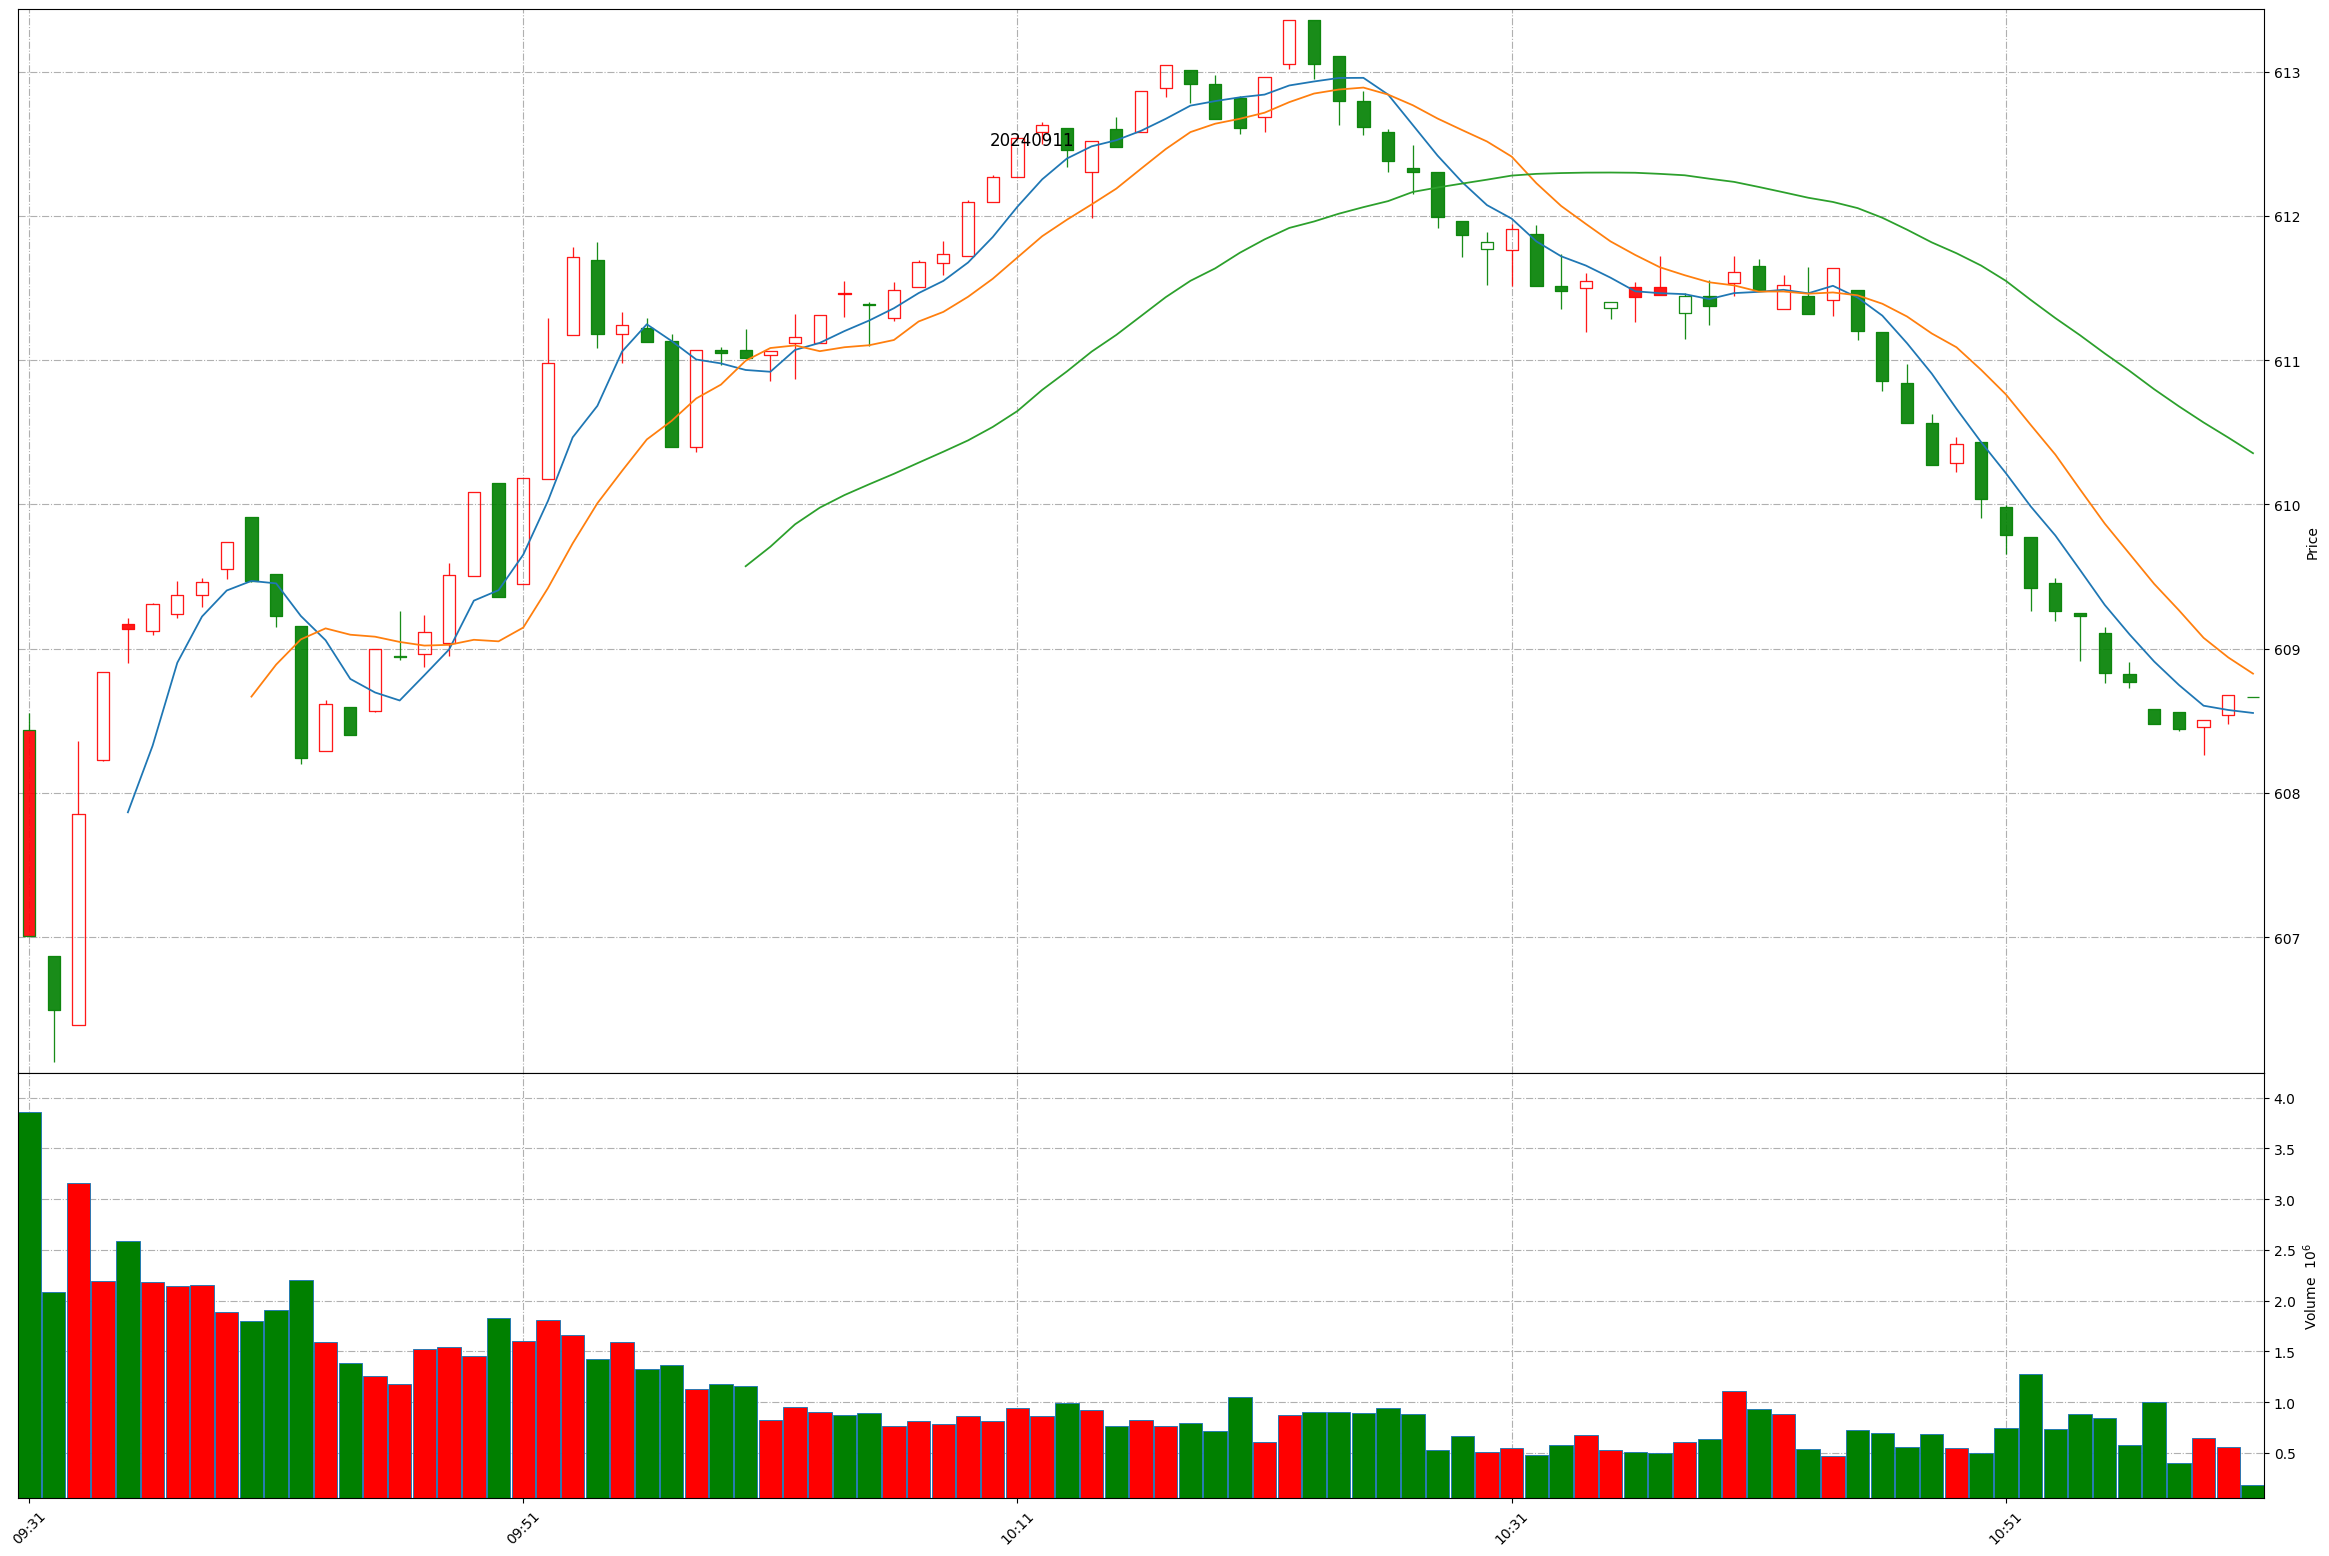
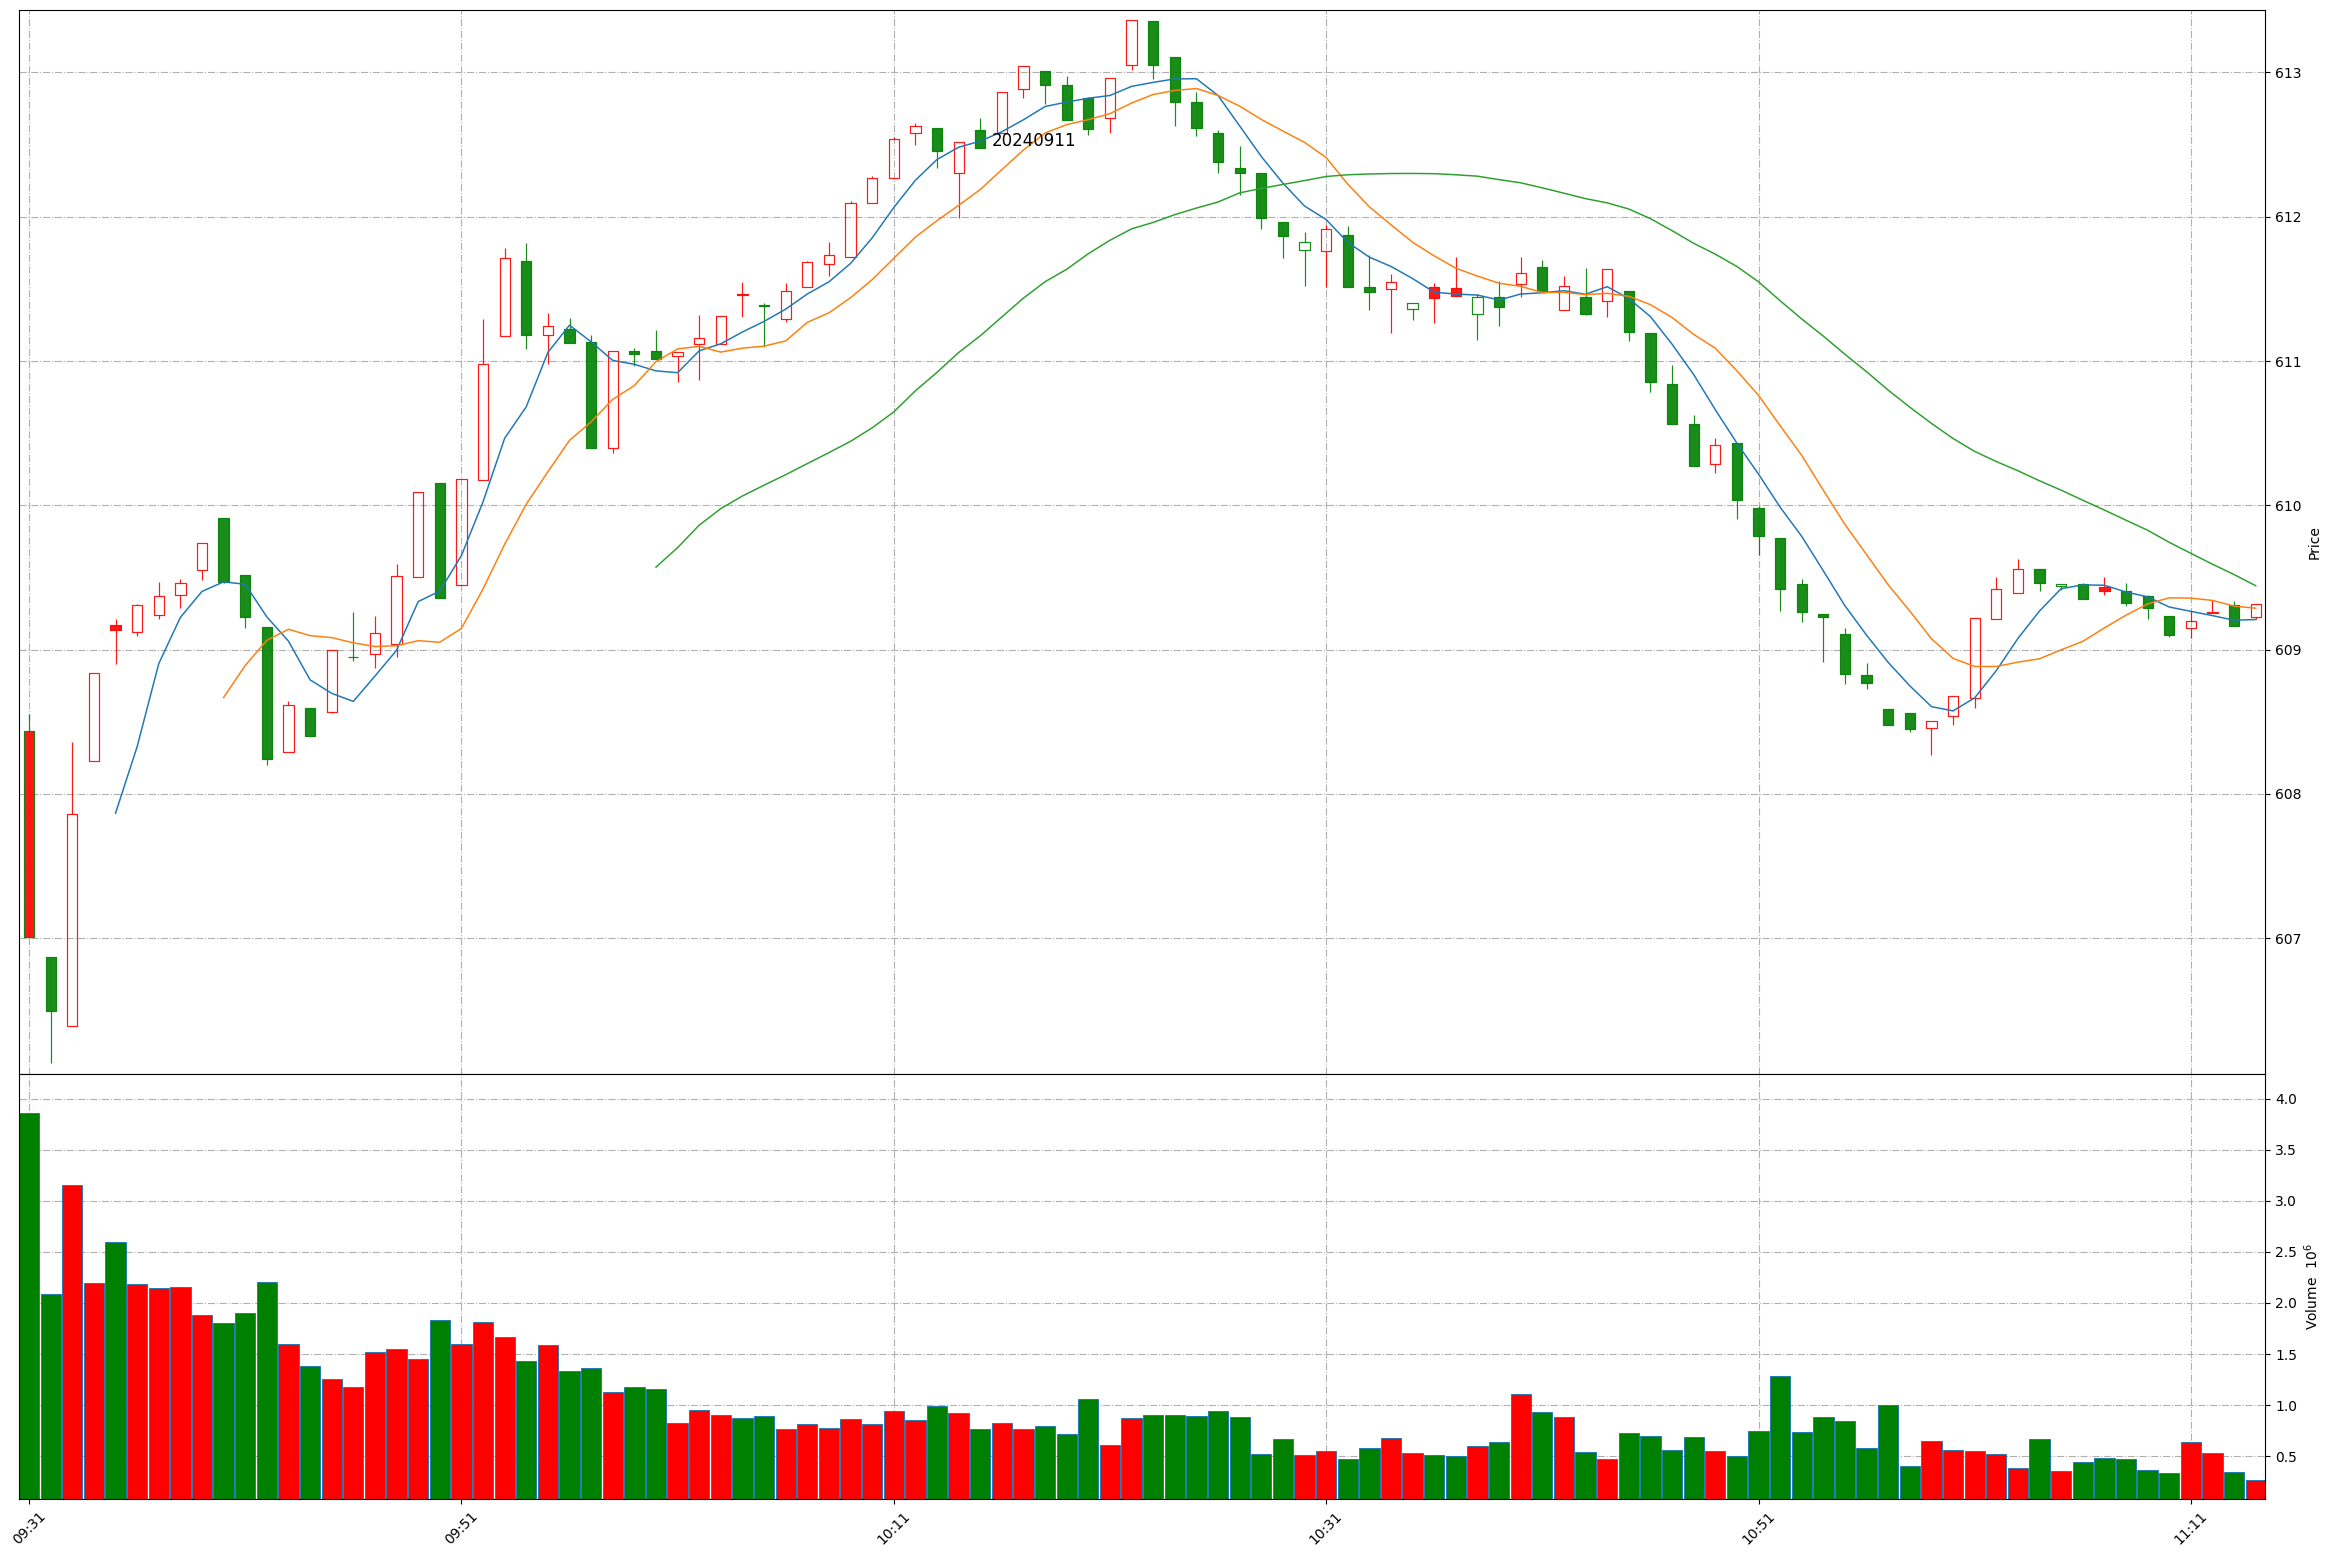
Github action update at 2024-09-11 11:13:58.

diff --git a/README.md b/README.md
@@ -1,11 +1,11 @@
 
 # Daily-A-share-market-quotes 每日 A 股指数（5min 更新）- 20240911
 
-### 上证指数 20240911 11:0
+### 上证指数 20240911 11:13
 ![](./fig/2024/9/20240911-sh000001.png)
 
-### 深证成指 20240911 11:0
+### 深证成指 20240911 11:13
 ![](./fig/2024/9/20240911-sz399001.png)
 
-### 北证50 20240911 11:0
+### 北证50 20240911 11:13
 ![](./fig/2024/9/20240911-bj899050.png)
